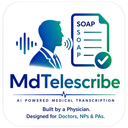
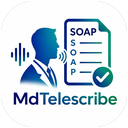
feat: open meeting Yes as extension modal and refresh branding
Use in-page modal when toolbar popup is blocked, sync new logo, and apply primary #10248A.

diff --git a/meeting-prompt.js b/meeting-prompt.js
@@ -10,6 +10,7 @@
   window.__mdtsMeetingPromptLoaded = true;
 
   const ROOT_ID = 'mdts-meeting-prompt-root';
+  const PANEL_ROOT_ID = 'mdts-extension-panel-root';
   const DISMISS_PREFIX = 'mdts-meeting-prompt-dismissed:';
   const CHECK_INTERVAL_MS = 2500;
 
@@ -175,7 +176,7 @@
     rootEl.innerHTML = `
       <div class="mdts-card" role="dialog" aria-live="polite" aria-label="md telescribe meeting prompt">
         <div class="mdts-brand">
-          <img alt="" width="28" height="28" />
+          <img alt="" width="40" height="40" />
           <span>md <em>telescribe</em></span>
           <button type="button" class="mdts-close" data-action="close" aria-label="Close" title="Close">
             <svg viewBox="0 0 24 24" fill="none" stroke="currentColor" stroke-width="2.2" stroke-linecap="round" aria-hidden="true">
@@ -202,7 +203,7 @@
 
     const logo = rootEl.querySelector('img');
     if (logo) {
-      logo.src = chrome.runtime.getURL('icons/icon48.png');
+      logo.src = chrome.runtime.getURL('icons/logo.png');
     }
 
     rootEl.addEventListener('click', onRootClick);
@@ -293,6 +294,11 @@
         return;
       }
 
+      // Toolbar popup when Chrome allows it; otherwise in-page extension modal.
+      if (response.opened !== 'popup') {
+        showExtensionPanelModal();
+      }
+
       dismissPromptPermanently();
     } catch (err) {
       showView('ask');
@@ -302,6 +308,46 @@
         button.disabled = false;
       }
     }
+  }
+
+  function closeExtensionPanelModal() {
+    const existing = document.getElementById(PANEL_ROOT_ID);
+    if (existing) {
+      existing.remove();
+    }
+  }
+
+  function showExtensionPanelModal() {
+    closeExtensionPanelModal();
+
+    const panel = document.createElement('div');
+    panel.id = PANEL_ROOT_ID;
+    panel.innerHTML = `
+      <div class="mdts-panel-backdrop" data-action="close-panel" aria-hidden="true"></div>
+      <div class="mdts-panel" role="dialog" aria-modal="true" aria-label="md telescribe">
+        <button type="button" class="mdts-panel-close" data-action="close-panel" aria-label="Close">
+          <svg viewBox="0 0 24 24" fill="none" stroke="currentColor" stroke-width="2.2" stroke-linecap="round" aria-hidden="true">
+            <path d="M18 6 6 18"></path>
+            <path d="m6 6 12 12"></path>
+          </svg>
+        </button>
+        <iframe
+          title="md telescribe"
+          src="${chrome.runtime.getURL('popup.html')}"
+          allow="microphone"
+        ></iframe>
+      </div>
+    `;
+
+    panel.addEventListener('click', (event) => {
+      const target = event.target;
+      if (!(target instanceof Element)) return;
+      if (target.closest('[data-action="close-panel"]')) {
+        closeExtensionPanelModal();
+      }
+    });
+
+    document.documentElement.appendChild(panel);
   }
 
   async function maybeShowPrompt() {

diff --git a/meeting-prompt.css b/meeting-prompt.css
@@ -59,9 +59,10 @@
 }
 
 #mdts-meeting-prompt-root .mdts-brand img {
-  width: 28px;
-  height: 28px;
-  border-radius: 8px;
+  width: 40px;
+  height: 40px;
+  border-radius: 10px;
+  object-fit: contain;
 }
 
 #mdts-meeting-prompt-root .mdts-brand span {
@@ -75,7 +76,7 @@
 
 #mdts-meeting-prompt-root .mdts-brand span em {
   font-style: normal;
-  color: #0047b3;
+  color: #10248a;
 }
 
 #mdts-meeting-prompt-root .mdts-title {
@@ -118,7 +119,7 @@
 
 #mdts-meeting-prompt-root .mdts-btn-primary {
   flex: 1 1 auto;
-  background: #0047b3;
+  background: #10248a;
   color: #ffffff;
 }
 
@@ -129,7 +130,7 @@
 #mdts-meeting-prompt-root .mdts-btn-secondary {
   flex: 1 1 auto;
   background: #e8f1fd;
-  color: #1e4a8c;
+  color: #10248a;
 }
 
 #mdts-meeting-prompt-root .mdts-btn-secondary:hover:not(:disabled) {
@@ -187,4 +188,74 @@
 
 #mdts-meeting-prompt-root .mdts-hidden {
   display: none !important;
+}
+
+/* In-page extension panel (opened from "Yes, open extension") */
+#mdts-extension-panel-root {
+  all: initial;
+  position: fixed;
+  inset: 0;
+  z-index: 2147483647;
+  font-family: system-ui, -apple-system, "Segoe UI", Roboto, sans-serif;
+}
+
+#mdts-extension-panel-root * {
+  box-sizing: border-box;
+}
+
+#mdts-extension-panel-root .mdts-panel-backdrop {
+  position: absolute;
+  inset: 0;
+  background: rgba(15, 23, 42, 0.45);
+}
+
+#mdts-extension-panel-root .mdts-panel {
+  position: absolute;
+  top: 16px;
+  right: 16px;
+  width: min(420px, calc(100vw - 32px));
+  height: min(680px, calc(100vh - 32px));
+  border-radius: 16px;
+  overflow: hidden;
+  background: #ffffff;
+  border: 1px solid #e2e8f0;
+  box-shadow: 0 20px 50px rgba(15, 23, 42, 0.28);
+}
+
+#mdts-extension-panel-root .mdts-panel-close {
+  appearance: none;
+  position: absolute;
+  top: 10px;
+  right: 10px;
+  z-index: 2;
+  display: inline-flex;
+  align-items: center;
+  justify-content: center;
+  width: 32px;
+  height: 32px;
+  padding: 0;
+  border: none;
+  border-radius: 10px;
+  background: rgba(255, 255, 255, 0.92);
+  color: #64748b;
+  cursor: pointer;
+  box-shadow: 0 1px 4px rgba(15, 23, 42, 0.12);
+}
+
+#mdts-extension-panel-root .mdts-panel-close:hover {
+  background: #f1f5f9;
+  color: #1c2434;
+}
+
+#mdts-extension-panel-root .mdts-panel-close svg {
+  width: 16px;
+  height: 16px;
+}
+
+#mdts-extension-panel-root iframe {
+  display: block;
+  width: 100%;
+  height: 100%;
+  border: 0;
+  background: #f8fbff;
 }

diff --git a/extension-ui.css b/extension-ui.css
@@ -1,8 +1,8 @@
 :root {
-  --brand-primary: #0047b3;
-  --brand-primary-hover: #003a94;
+  --brand-primary: #10248a;
+  --brand-primary-hover: #0c1c6e;
   --brand-primary-soft: #e8f1fd;
-  --brand-secondary-foreground: #1e4a8c;
+  --brand-secondary-foreground: #10248a;
   --background: #f4f7fc;
   --surface: #ffffff;
   --foreground: #1c2434;
@@ -64,18 +64,18 @@ body {
 }
 
 .brand-logo {
-  width: 36px;
-  height: 36px;
+  width: 48px;
+  height: 48px;
   flex-shrink: 0;
-  border-radius: 10px;
+  border-radius: 12px;
   box-shadow: var(--shadow-sm);
 }
 
 .brand-logo-full {
   display: block;
   width: auto;
-  height: 44px;
-  max-width: 100%;
+  height: 72px;
+  max-width: 280px;
   object-fit: contain;
 }
 
@@ -418,7 +418,7 @@ body {
   width: 15px;
   height: 15px;
   flex-shrink: 0;
-  accent-color: var(--brand-primary, #0047b3);
+  accent-color: var(--brand-primary, #10248a);
   cursor: pointer;
 }
 

diff --git a/background.js b/background.js
@@ -412,8 +412,18 @@ async function openExtensionFromMeeting(data, senderTabId) {
     // Extension UI can still open without focusing the tab.
   }
 
-  await openExtensionUiNearToolbar();
-  return { ok: true, opened: true };
+  // Prefer the real toolbar popup. If Chrome blocks it (no user-gesture in the SW),
+  // ask the content script to show an in-page modal instead of a full window/tab.
+  try {
+    if (chrome.action?.openPopup) {
+      await chrome.action.openPopup();
+      return { ok: true, opened: 'popup' };
+    }
+  } catch (err) {
+    console.warn('[background] openPopup from meeting failed:', err);
+  }
+
+  return { ok: true, opened: 'modal' };
 }
 
 /**

diff --git a/capture-launcher.html b/capture-launcher.html
@@ -45,7 +45,7 @@
 <body class="launcher-page">
   <div class="launcher-card">
     <header class="brand-header" style="padding: 0 0 12px;">
-      <img src="icons/logo.png" alt="md telescribe" class="brand-logo-full" style="height: 36px;" />
+      <img src="icons/logo.png" alt="md telescribe" class="brand-logo-full" style="height: 64px;" />
     </header>
     <h1 id="title">Starting recording…</h1>
     <p id="status">Capturing your meeting tab. Keep this window open for a moment.</p>

diff --git a/mic-setup.html b/mic-setup.html
@@ -9,7 +9,7 @@
 <body class="mic-setup-page">
   <div class="mic-setup-card">
     <header class="brand-header" style="padding: 0;">
-      <img src="icons/logo.png" alt="md telescribe" class="brand-logo-full" style="height: 40px;" />
+      <img src="icons/logo.png" alt="md telescribe" class="brand-logo-full" style="height: 64px;" />
     </header>
 
     <h1>Allow microphone</h1>
